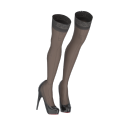
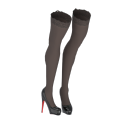
Dye one green stocking model for both maid outfits
The maids' stockings come from one model generated in a key green and
dyed at fitting: coffee for Miriel, white with 45% leg skin for Cocoly.
Drop the unused stocking generations.

Changed region(s): [[0.2812, 0.0625, 0.75, 0.9062]]

diff --git a/client/src/previews/female-base.ts b/client/src/previews/female-base.ts
@@ -1001,7 +1001,8 @@ export async function showFemaleBase(
     })
   }
   collectMaterials(model)
-  // Straps shown while a skirt and its boots are both worn.
+  // Straps shown while a skirt and its boots are both worn. Boots with a second material for the
+  // sole are named _1 and _2 by three.js.
   const garterSets = [
     {
       url: '/__modular-character/parts/female_rogue_garters.glb',
@@ -1009,11 +1010,10 @@ export async function showFemaleBase(
     },
     {
       url: '/__modular-character/parts/female_maid_garters.glb',
-      worn: ['bottom_female_maid', 'boots_female_maid'],
+      worn: ['bottom_female_maid', 'boots_female_maid_1'],
     },
     {
       url: '/__modular-character/parts/female_pink_maid_garters.glb',
-      // The boots have a second material for the red sole, so three.js names their meshes _1 and _2.
       worn: ['bottom_female_pink_maid', 'boots_female_pink_maid_1'],
     },
   ].map((set) => ({

diff --git a/tools/blender-scripts/fit_female_outfit.py b/tools/blender-scripts/fit_female_outfit.py
@@ -32,6 +32,8 @@ LEGS = ('LeftLeg', 'LeftFoot', 'LeftToe', 'RightLeg', 'RightFoot', 'RightToe')
 FEET = ('LeftFoot', 'LeftToe', 'RightFoot', 'RightToe')
 CEREMONY_V2 = dict(source='tripo_multiview_v2/segmented.glb',
[1 lines of base64/hex data omitted]
+# Dyes for the key-green stockings, sRGB. The white carries 45% of the leg's skin colour.
+STOCKING_COLOURS = {'coffee': (.25, .2, .18), 'white': (.868, .784, .734), 'pink': (.96, .72, .78)}
 # Leg skin of the female base, sRGB.
 LEG_SKIN = (.767, .594, .494)
 OUTFITS = {
@@ -217,15 +219,16 @@ OUTFITS = {
                                                 for bone, (x, y, z), radii in (
                                                     ('UpLeg', (.137, .785, -.04), [.095, .225, .105]),
                                                     ('Leg', (.2, .34, -.045), [.075, .265, .085]))])),
-            # Thigh-high stockings and pumps in one piece. The sole came 1 cm below the plate boots' sole, whose lift
-            # every heel shares, and the heel tip 2.5 cm short of it: the shoe is raised as one piece and the heel
-            # stretched by half the gap, as on the ceremony pumps.
+            # Thigh-high stockings with a lace band and red-soled pumps, generated alone on the bare mannequin with
+            # the knit in a key green and dyed here (user request: any colour from one model). The first pair
+            # came with the whole outfit: its shoes' gloss ended in a ragged edge, which showed once the black
+            # knit was lightened. A second pair came with two posts under each heel.
             'boots': dict(nodes=['left_boots', 'right_boots'], version='fitted_v1', hide_bones=LEGS, rigid_post=.075,
-                          lower_shoe=-.0102, extend_heel={'gap': .0127}, level_tops=True,
-                          clip_hem=dict(keep='above', within=.4, per_side=True, shift=-.003),
-                          # Leg skin (sRGB) blended into the black knit: opaque black read as leggings.
-                          repaint=dict(mode='sheer', skin=LEG_SKIN, amount=.3, band=.078),
-                          taper=dict(opening=.03, ankle=.07, ankle_fade=.05, clearance=.002, reach=.13)),
+                          clip_hem=dict(keep='above', within=.4, per_side=True, shift=-.003), lower_shoe=.019,
+                          repaint=dict(mode='dye', colour=STOCKING_COLOURS['coffee'], roughness=.9, margin=4),
+                          sole_colour=(.74, .05, .06),
+                          model=dict(source='tripo_boots_v3/segmented.glb',
[1 lines of base64/hex data omitted]
             'helmet': dict(nodes=['helmet'], version='fitted_v1'),
         }),
 }
@@ -233,17 +236,10 @@ OUTFITS = {
 MAID = OUTFITS['maid']
 OUTFITS['pink_maid'] = dict(MAID, source='../female_maid_outfit/' + MAID['source'], parts={
     'gloves': dict(MAID['parts']['gloves'], repaint=dict(mode='white_cloth', white=(1, .985, .97), margin=8)),
-    # White stockings and black pumps generated alone on the bare mannequin: painting the maid's stockings white
-    # showed the ragged edge of its shoes' gloss.
-    'boots': dict(nodes=['left_boots', 'right_boots'], version='fitted_v1', hide_bones=LEGS, rigid_post=.075,
-                  clip_hem=dict(keep='above', within=.4, per_side=True, shift=-.003),
-                  # The sole stood 2.3 cm over the plate boots' sole, whose lift every heel shares.
-                  lower_shoe=.023,
-                  repaint=dict(mode='clean_knit', rough=.2, margin=4),
-                  # The generated red stopped halfway down the heels' inner faces.
-                  sole_colour=(.74, .05, .06),
-                  # Generated 9 mm ahead of the leg all the way down: moved back as one piece.
[1 lines of base64/hex data omitted]
+    'boots': dict(MAID['parts']['boots'],
+                  repaint=dict(MAID['parts']['boots']['repaint'], colour=STOCKING_COLOURS['white'], floor=.72),
+                  model=dict(MAID['parts']['boots']['model'],
+                             source='../female_maid_outfit/' + MAID['parts']['boots']['model']['source'])),
     # White puff-sleeved blouse under a pink pinafore bodice, generated alone on a bust. Its cuff frill is white
     # like the sleeve, so the arm is cut by the frill's place at the sleeve's end, not its colour.
     'top': dict(nodes=['top'], version='fitted_v1', hide_underwear=(1.15, 1.7),
@@ -882,7 +878,7 @@ def repaint(spec):
     `sheer`: skin colour blended into the matte knit so the leg seems to show through. The glossy shoe (low
     roughness) keeps its colour, and so does the lace and welt band, `band` metres down from each stocking's
     top edge. Picking the band by its tone left the knit's baked shadows black too.
-    `clean_knit`: white knit stained by the shoe's black is made white again.
+    `dye`: a knit generated in key green takes any colour.
     `white_cloth`: dark cloth turns white, its highlights and folds kept as shading.
     """
     def image_of(socket):
@@ -897,8 +893,9 @@ def repaint(spec):
         image.pixels.foreach_get(values)
         return values.reshape(image.size[1], image.size[0], -1)
 
-    colour_image = image_of('Base Color')
-    colour, rough = read(colour_image), read(image_of('Roughness'))[:, :, 1]
+    colour_image, orm_image = image_of('Base Color'), image_of('Roughness')
+    colour, orm = read(colour_image), read(orm_image)
+    rough = orm[:, :, 1]
     assert rough.shape == colour.shape[:2]
     height, width = rough.shape
     position = np.array([v.co for v in mesh.vertices])
@@ -909,8 +906,6 @@ def repaint(spec):
             leg = position[:, 0] * sign > 0
             centre, normal = fit_plane(closed_rim(position[leg], 1))
             below[leg] = (centre - position[leg]) @ (normal * np.sign(normal[2]))
-    if spec['mode'] == 'clean_knit':
-        below = np.array([v.normal.z for v in mesh.vertices])
     depth = np.full((height, width), -1, np.float32)
     used = np.zeros((height, width), bool)
     # A light colour needs a wider rim than 1.5 px: the game's 1024 px texture mixed the black past the islands'
@@ -941,18 +936,26 @@ def repaint(spec):
     if spec['mode'] == 'sheer':
         weight = spec['amount'] * knit * under_band
         target = np.array(spec['skin'], np.float32)
-    elif spec['mode'] == 'clean_knit':
-        # The shoe's black ran over its edge onto the matte knit: knit texels (rougher than `rough`) take the
-        # knit's own white.
-        white = np.median(rgb[used & (tone > .7)], axis=0)
-        target = np.maximum(rgb, white)
-        # The red sole is as matte as the knit and stays: by its colour, and in shadow by facing down.
-        weight = (used * smoothstep((rough - spec['rough']) / .03) * (rgb[:, :, 0] < 1.3 * rgb[:, :, 2] + .02)
-                  * (depth > -.3))
+    elif spec['mode'] == 'dye':
+        # The knit was generated in a key green: those texels take `colour` at their own shading, so the lace's
+        # darker pattern stays. Shoes and soles are not green.
+        green = rgb[:, :, 1] - np.maximum(rgb[:, :, 0], rgb[:, :, 2])
+        # Every green texel, used or not: the game's smaller texture pulled green in from past the islands' edges.
+        # The glossy black shoe carries a faint green cast (up to .06); the knit and its lace start at .11.
+        weight = smoothstep((green - .07) / .05)
+        # `floor`: how dark the lace pattern and folds may go; on white a lower floor read as black thread.
+        shade = np.clip(rgb[:, :, 1] / np.median(rgb[:, :, 1][weight > .9]), spec.get('floor', .35), 1.3)
+        target = np.clip(np.array(spec['colour'], np.float32) * shade[:, :, None], 0, 1)
     else:
         target = np.maximum(rgb, np.clip(.78 + .9 * tone, 0, .97)[:, :, None] * np.array(spec['white'], np.float32))
         weight = used.astype(np.float32)
     rgb += (target - rgb) * weight[:, :, None]
+    if 'roughness' in spec:
+        # A dyed knit takes one roughness, so every colour is as matte.
+        orm[:, :, 1] += (spec['roughness'] - orm[:, :, 1]) * weight
+        orm_image.pixels.foreach_set(orm.ravel())
+        orm_image.update()
+        orm_image.pack()
     colour_image.pixels.foreach_set(colour.ravel())
     colour_image.update()
     colour_image.pack()

diff --git a/tools/split-female-guard-skirt.py b/tools/split-female-guard-skirt.py
@@ -26,6 +26,10 @@ MANNEQUIN_PIECE = 200
 HEAD = float(sys.argv[2]) if len(sys.argv) > 2 else 1.6
 
 source = Source(SOURCE)
+# `green` anywhere in the arguments: the garment is painted in a key green, which is nearly as far from red as
+# the mannequin's blue. Greener than blue is cloth.
+if 'green' in sys.argv:
+    source.warmth[source.colour[:, :, 1].astype(int) > source.colour[:, :, 2]] = 0
 faces = source.faces
 blue = source.face_share(source.warmth < MANNEQUIN_BLUE, faces) > .5
 around = source.neighbours()
@@ -62,7 +66,7 @@ if sys.argv[3:4] == ['boots']:
              for name in ('left_boots', 'right_boots')}
     # A fourth argument cuts the stocking tops level at that height (m): a lace band lost to the mannequin's
     # colour left them ragged.
-    if len(sys.argv) > 4:
+    if len(sys.argv) > 4 and sys.argv[4] != 'green':
         top = float(sys.argv[4])
         for name, triangles in parts.items():
             triangles = source.clip(triangles, top)

diff --git a/doc/assets/modular-female-maid-tripo.md b/doc/assets/modular-female-maid-tripo.md
@@ -69,9 +69,9 @@ OpenAI Codex built-in ImageGen(`codex exec`), **ChatGPT Pro 20x**. OpenAI 생성
 | 상의 (`tripo_top_v2`) | `top/fitted_v1/top_female_maid.glb` | 11,803 | 4,941 |
 | 치마 | `bottom/fitted_v1/bottom_female_maid.glb` | 3,359 | 1,836 |
 | 장갑 | `gloves/fitted_v1/gloves_female_maid.glb` | 4,078 | 4,708 |
-| 스타킹과 구두 | `boots/fitted_v1/boots_female_maid.glb` | 2,686 | 3,335 |
+| 스타킹과 구두 (`tripo_boots_v3`) | `boots/fitted_v1/boots_female_maid.glb` | 4,236 | 3,490 |
 
-합계 22,854 triangles, 몸체는 따로다. 조립 목표(15,000–20,000)를 옷만으로 넘는다. 보이는 삼각형 수와 얼굴 배분은 재지 않았다.
+합계 23,979 triangles, 몸체는 따로다. 조립 목표(15,000–20,000)를 옷만으로 넘는다. 보이는 삼각형 수와 얼굴 배분은 재지 않았다.
 
 - 치마: 허벅지 가중치를 받으면 걸을 때 밑단이 다리 사이에서 찢어졌다. 예복처럼 `robe_physics`로 골반에 매달고 예복의 다리 충돌체를 쓴다. 걷기·달리기·앉기에서 다리가 뚫고 나오지 않는다.
 - 치마 위치: 허리띠 고리가 몸체 허리보다 1.7cm 뒤에 있어 앞은 배 안쪽 2cm, 뒤는 바깥 1.5cm였고, 상의를 벗으면 띠 앞이 배 뒤로 물러나 보였다(사용자 지적 2026-11-19). 치마 전체를 한 덩어리로 1.7cm 앞으로 옮겼다(`model=dict(offset_y=-.017)`). 띠 높이에서 앞은 몸체와 3mm 차이, 뒤는 5mm 바깥이다. 옆은 여전히 띠가 몸체보다 1–2cm 좁고 그 피부는 숨긴다.
@@ -86,19 +86,24 @@ OpenAI Codex built-in ImageGen(`codex exec`), **ChatGPT Pro 20x**. OpenAI 생성
 - 장갑 정렬: 손에만 맞춰 놓았더니 긴 통이 팔꿈치에서 팔보다 2cm 넘게 뒤에 있었다(사용자 지적 2026-11-19). 장갑은 한 덩어리로만 회전·이동한다. 먼저 손과 팔 전체 표면에 ICP로 맞추고(의상 설정의 `fit_arm`), 손목 2cm 위와 윗단 장식 4cm 아래 두 단면의 중심이 팔 중심에 오도록 손목 단면을 축으로 돌린다(`align_ends`, 피팅 스크립트에 추가). 안의 팔과 손은 가려지므로 두 끝만 맞춘다(사용자 지시). 두 번째 단계의 회전은 왼쪽 2.0°, 오른쪽 1.7°, 남은 오차는 1.4mm 이하다. 저장한 미리보기 피팅값은 그 뒤에 적용된다.
   - 구간마다 다른 양으로 정점을 옮기는 방식은 통이 울퉁불퉁해져 버렸다(사용자 지적).
 - 스타킹 윗단이 막힌 채 생성돼 열린 가장자리가 없다. `clip_hem`이 윗단 1cm의 뚜껑에 평면을 맞춘다(피팅 스크립트에 추가).
-- 스타킹 굵기: 윗단이 허벅지보다 15% 굵고 1.6cm 뒤에 있어 다리가 굵어 보였다(사용자 지적 2026-11-19). 안의 다리는 가려지므로 입구(윗단 3cm 아래)와 발목(발목 관절 7cm 위) 두 단면만 몸체와 재고, 다리 축 둘레의 배율을 그 사이에서 선형으로 바꾼다(`taper`, 피팅 스크립트에 추가). 정점마다 맞추지 않아 통의 모양은 매끈하게 남는다(사용자 지시). 배율은 입구 0.87, 발목 0.93(왼쪽)·0.95(오른쪽), 여유 2mm다. 입구는 허벅지 중심으로 1.8cm 옮기고 이 이동은 발목에서 0이 된다. 발목 아래 5cm에서 배율이 1로 돌아가 구두는 그대로다.
-  - 단면은 정점이 아니라 삼각형과 평면의 교선으로 잰다. 몸체 허벅지는 정점 고리가 성겨 정점만으로는 폭이 절반으로 나왔다.
-  - 생성된 다리는 발목에서 몸체보다 5.5cm 뒤에 있다. 구두가 거기 붙어 있어 옮기지 않았다.
-- 스타킹 윗단의 몸체 절단: 두 다리의 윗단에 평면 하나를 맞춰 잘랐더니 다리마다 기울기가 달라 윗단과 살 사이에 틈이 보였다(사용자 지적 2026-11-19). 다리마다 평면을 따로 맞춘다(`clip_hem`의 `per_side`, 피팅 스크립트에 추가). 윗단은 다리 둘레 48방향마다 가장 높은 점으로 잡고 그 평면에서 4mm 넘게 벗어난 뾰족한 점은 뺀다. 평면은 윗단 3mm 아래에 두어 살이 스타킹 안으로 그만큼 들어간다(`shift=-.003`). 기울기는 왼쪽 7.1°, 오른쪽 8.8°다.
-- 스타킹 윗단의 뾰족한 점: 윗단 위로 삼각형 몇 개가 솟아 레이스 위에 톱니로 보였다(사용자 지적 2026-11-19). 다리마다 윗단 평면 위에 있는 정점을 평면으로 눌러 내린다(`level_tops`, 피팅 스크립트에 추가). 왼쪽 32개(최대 8.5mm), 오른쪽 19개(최대 6.0mm). 삼각형 수는 그대로다.
-- 스타킹 색: 불투명한 검정이라 살이 비치지 않았다(사용자 지적 2026-11-19). 실제 반투명 대신 텍스처에 다리 살색(sRGB 0.767, 0.594, 0.494)을 30% 섞는다(`sheer`, 피팅 스크립트에 추가). 이 파츠의 UV가 덮는 텍셀 중 거칠기가 높은 곳(무광 편물)만 바꾸므로 유광 구두는 그대로다. 윗단에서 7.8cm까지인 레이스와 띠는 검정으로 둔다(`band`). 편물 평균색은 (0.155, 0.135, 0.125)에서 (0.34, 0.27, 0.24)쯤이 됐다.
-  - 35%에 레이스까지 섞은 첫 시도는 갈색 스타킹으로 읽혔다. 레이스와 띠를 밝기로 골라 뺀 두 번째 시도는 편물에 구워진 어두운 음영도 같이 빠져 허벅지 안쪽에 검은 줄이 남았다(사용자 지적). 위치로 고른다.
-- 구두: 30° 굽 자세에서 밑창이 판금 부츠보다 1cm 낮고 굽 끝은 밑창보다 2.5cm 짧았다. 구두를 통째로 1cm 올리고(`lower_shoe`) 굽은 예복 구두처럼 차이의 절반(12.7mm)만 늘렸다. 밑창은 판금 부츠와 같은 높이가 됐고 굽 끝은 1.3cm쯤 뜬다.
-- 굽에 6–7.5cm 높이의 정점이 없어 `rigid_post`가 기준 고리를 찾지 못했다. 그 위의 첫 고리를 쓴다(피팅 스크립트에 추가).
+- 스타킹과 구두는 2026-11-19에 따로 다시 생성했다(`tripo_boots_v3`, 아래 "스타킹 재생성"). 첫 생성물의 굵기 보정, 윗단 다듬기, 살색 섞기, 구두 높이 보정은 새 모델에 쓰지 않는다.
 
 ![대기·뒤·걷기·달리기·앉기](../../assets/items/female_maid_outfit/preview-poses.png)
 
 미리보기 `/modular-character-preview.html?character=female&top=maid&bottom=maid&boots=maid&gloves=maid&helmet=maid&hair=twintail`.
+
+## 스타킹 재생성 — 2026-11-19
+
+첫 스타킹은 불투명한 검정이었다. 살이 비치도록 텍스처에 살색을 섞자(사용자 요청) 구두 광택의 들쭉날쭉한 경계가 드러나 커피색이 구두로 번져 보였다(사용자 지적). 다시 생성했다(사용자 결정).
+
+- `tripo_boots_v2` **[미사용]**: 커피색 스타킹과 검은 레이스 띠(`stockings-*-v1.png`). 작업 ID `967f15f5-0bc6-477c-8e69-7ce09d5802c7`, seed 111908, 120크레딧. 구두마다 가는 굽 기둥이 두 개씩 나왔다. 앞 기둥을 지우면 굽자리가 어색했고, 흰 스타킹의 구두를 발목에서 이어 붙이면 위아래 편물의 광택이 달랐다(사용자 지적). 폴더와 시안 그림은 사용자 요청(2026-11-19)으로 지웠고 이 기록만 남긴다.
+- `tripo_boots_v3`: 스타킹을 구분하기 쉬운 초록(`#35C24A` 근처)으로 그려 생성하고 피팅 때 물들인다(사용자 제안: 한 모델에서 흰색·커피색·분홍 등을 만든다). 원화 `keyed-front-v1.png`, `keyed-side-v1.png`, `keyed-back-v1.png`는 [분홍 메이드복](modular-female-pink-maid-tripo.md)의 흰 스타킹 시안에서 스타킹만 바꿨고, 레이스 띠는 같은 초록 바탕에 짙은 초록 무늬다. Codex ImageGen, ChatGPT Pro 20x. 다중 시점 front·left·back, 작업 ID `898b3bbc-899b-4775-a7a8-e6f3284ae2a8`, seed 111909, 120크레딧(760 → 640).
+- 분리: `split-female-guard-skirt.py assets/items/female_maid_outfit/tripo_boots_v3 0.95 boots green`. 초록은 빨강−파랑 차이가 마네킹 파랑만큼 커서 마네킹으로 읽히므로, `green`이 붙으면 파랑보다 초록이 큰 텍셀을 옷으로 본다. 배율 1.823, 평균 10.1mm. 레이스 띠가 메시로 나왔고 굽은 하나다.
+- 피팅: 구두를 1.9cm 내려 밑창을 판금 부츠 높이에 맞췄다(`lower_shoe`). 굵기 보정은 없다.
+- 색: 초록 텍셀을 그 음영 그대로 지정한 색으로 바꾸고 거칠기를 0.9로 맞춘다(`repaint`의 `dye`). 색은 `STOCKING_COLOURS`에 커피(0.25, 0.2, 0.18)·흰색·분홍을 두었고 미리엘은 커피다. 섬 바깥의 초록까지 모두 바꾼다. 쓰는 텍셀만 바꾸면 게임용 1024px 텍스처에서 이음매에 초록 선이 보였다.
+- 밑창과 굽 안쪽 면은 붉은 재질로 바꾼다(`sole_colour`). 재질이 둘이 되어 미리보기의 가터 착용 조건은 `boots_female_maid_1`을 본다.
+- 스타킹 윗단이 0.78m에서 0.85m로 올라가 가터 끈을 다시 만들었다.
+- 4,236 triangles, 가린 몸체 삼각형 3,490.
 
 ## 가터 끈
 

diff --git a/doc/assets/modular-female-pink-maid-tripo.md b/doc/assets/modular-female-pink-maid-tripo.md
@@ -8,7 +8,7 @@ Cocoly를 통짜 모델 `pink_maid.glb`에서 여성 공통 몸체로 옮기며 
 - 상의: 흰 퍼프소매 블라우스, 펼친 깃과 분홍 리본, 주름을 두른 열린 가슴선, 어깨 주름이 달린 분홍 코르셋 조끼.
 - 하의: 흰 허리띠, 짧은 분홍 치마, 흰 레이스 속치마, 주름 앞치마, 뒤의 큰 흰 리본.
 - 장갑: 검은 메이드 장갑을 흰색으로 바꾼 것.
-- 신발: 흰 허벅지 스타킹과 검은 에나멜 스틸레토, 붉은 밑창. 윗단 레이스는 없다.
+- 신발: 윗단에 레이스 띠가 있는 흰 허벅지 스타킹과 검은 에나멜 스틸레토, 붉은 밑창.
 - 가터 끈: 흰 끈 네 줄, 금색 걸쇠.
 
 ## 원화
@@ -39,14 +39,13 @@ Tripo API 유료 크레딧, 건당 120크레딧(1240 → 880). 설정은 각 폴
 cd tools
 ../.venv/bin/python split-female-maid-top.py assets/items/female_pink_maid_outfit/tripo_top_v1
 ../.venv/bin/python split-female-guard-skirt.py assets/items/female_pink_maid_outfit/tripo_skirt_v1 1.25
-../.venv/bin/python split-female-guard-skirt.py assets/items/female_pink_maid_outfit/tripo_boots_v1 0.9 boots 0.83
 ```
 
 두 분리 스크립트가 폴더를 인자로 받게 했다. 치마 스크립트의 둘째 인자는 그 높이 위의 떨어진 조각을 버리고, `boots`는 조각을 다리별로 나누며, 넷째 인자는 그 높이에서 윗단을 평평하게 자른다.
 
 - 상의: 배율 0.798, 평균 5.5mm, 95% 12.3mm.
 - 치마: 배율 1.838, 평균 9.9mm. 마네킹 수영복의 등 끈 조각 두 개가 치마에 딸려 와 허리띠보다 15cm 솟았고, 허리 절단 평면이 거기에 맞춰져 수직으로 섰다. 팔 피부까지 328개를 잘못 잘라 위팔에 구멍이 보였다(사용자 지적). 1.25m 위의 조각을 버려 평면이 1.21m에 수평으로 놓였다.
-- 스타킹: 배율 1.822, 평균 6.1mm. 시안의 윗단 레이스 띠가 3D에서는 마네킹 파란색으로 나와 윗단이 들쭉날쭉했다. 0.83m에서 평평하게 잘라 민무늬로 쓴다(사용자 결정).
+- 스타킹(`tripo_boots_v1`, 미사용): 배율 1.822, 평균 6.1mm. 시안의 윗단 레이스 띠가 3D에서는 마네킹 파란색으로 나와 0.83m에서 평평하게 잘랐다.
 
 ## 피팅
 
@@ -57,17 +56,15 @@ cd tools
 | 상의 | `top/fitted_v1/top_female_pink_maid.glb` | 11,886 | 4,469 |
 | 치마 | `bottom/fitted_v1/bottom_female_pink_maid.glb` | 4,243 | 1,748 |
 | 장갑 | `gloves/fitted_v1/gloves_female_pink_maid.glb` | 4,078 | 4,708 |
-| 스타킹과 구두 | `boots/fitted_v1/boots_female_pink_maid.glb` | 4,110 | 3,349 |
+| 스타킹과 구두 | `boots/fitted_v1/boots_female_pink_maid.glb` | 4,236 | 3,490 |
 
 - 상의: 소매 정렬과 소매 끝 슬라이더는 검은 메이드와 같다. 소매 주름이 소매와 같은 흰색이라 색으로 고를 수 없어, 소매 끝 3.5cm를 주름으로 본다(`clip_sleeve`의 `ruffle`).
 - 상의 허리: 코르셋 아랫단이 몸체 허리보다 2cm 넓었다(19.6×16.1cm, 몸체 17.8×14.1cm). 가슴 밑 1.29m에서 아랫단까지 선형으로 좁혀 아랫단을 0.93배로 맞춘다(`taper_waist`, 사용자 제안).
 - 치마: 설정은 검은 메이드 치마와 같고, 분홍 치마 판이 260–1,250면 조각으로 나와 속 껍질 판정의 겹 기준만 250면으로 낮췄다. 허리띠가 몸체보다 작아 코르셋이 띠를 뚫었다. 사용자가 미리보기에서 전체 102.5%, 좌우 0.3cm, 앞뒤 −0.2cm로 맞췄다([저장값](female-pink_maid-preview-fit.json)). 띠만 1.16–1.18배 넓히는 보정은 너무 커서 버렸다(사용자 지적).
 - 장갑: 검은 장갑의 텍스처에서 이 파츠의 텍셀을 흰색으로 칠한다(`repaint`의 `white_cloth`). 게임용 1024px 텍스처에서 조각 가장자리에 검정이 섞여 회색 솔기가 보여, 칠하는 범위를 가장자리 밖 8px로 넓혔다.
-- 스타킹: 굵기 보정 없이 통째로 9mm 뒤로 옮겼다(`offset_y`). 생성물이 다리 전체에서 앞으로 1cm쯤 치우쳐 있었다. 구두는 2.3cm 내려 밑창을 판금 부츠 높이에 맞췄다(`lower_shoe`).
-  - 무릎 근처가 몸체보다 폭 6–9mm, 앞뒤 2cm 두껍다. Tripo 원본에 무릎과 종아리 굴곡이 새겨져 있다. 입구와 발목 두 단면으로 맞추는 `taper`는 이 굴곡을 줄이지 못해 뺐다(사용자 결정).
-  - 구두의 검정이 윗선을 넘어 스타킹에 번져 있어, 무광인데 어두운 텍셀을 스타킹의 흰색으로 칠한다(`repaint`의 `clean_knit`). 붉은 텍셀과 아래를 향한 면은 뺀다.
-  - 생성된 붉은색이 굽 안쪽 면 중간에서 끝나, 밑창과 굽 안쪽 면을 붉은 재질로 바꾼다(`sole_colour`).
-- 검은 스타킹을 흰색으로 칠하는 방식은 버렸다. 구두의 광택 경계가 들쭉날쭉해 흰색이 구두로 번졌고, 윗선을 평면으로 다시 그려도 깔끔하지 않았다(사용자 지적). 그 코드는 남기지 않았다.
+- 스타킹과 구두: [검은 메이드복](modular-female-maid-tripo.md)의 초록 스타킹 모델(`female_maid_outfit/tripo_boots_v3`)을 흰색으로 물들여 쓴다(`repaint`의 `dye`, 사용자 결정). 레이스 무늬가 흰 바탕에서 검은 실처럼 보이지 않게 음영 하한을 0.72로 올렸다(`floor`). 흰색은 살이 비치는 느낌이 나도록 흰 바탕 (0.95, 0.94, 0.93)에 다리 살색을 45% 섞은 (0.868, 0.784, 0.734)이다(사용자 요청, 25%·35%를 거쳐 정했다). 나머지 설정은 미리엘 것과 같다.
+  - 이 의상용으로 따로 생성한 `tripo_boots_v1`은 **[미사용]**이다. 윗단 레이스 띠가 마네킹 파란색으로 나와 잘라 냈고, 무릎 근처가 몸체보다 폭 6–9mm·앞뒤 2cm 두꺼웠으며, 구두의 검정이 스타킹에 번지고 붉은 밑창이 굽 중간에서 끝났다. 폴더는 사용자 요청(2026-11-19)으로 지웠고 기록만 남긴다. 시안 `boots-*-v1.png`는 초록 스타킹 원화의 바탕이라 남겼다.
+- 검은 스타킹을 흰색으로 칠하는 방식도 버렸다. 구두의 광택 경계가 들쭉날쭉해 흰색이 구두로 번졌고, 윗선을 평면으로 다시 그려도 깔끔하지 않았다(사용자 지적). 그 코드는 남기지 않았다.
 
 미리보기 `/modular-character-preview.html?character=female&top=pink_maid&bottom=pink_maid&boots=pink_maid&gloves=pink_maid&helmet=maid&hair=twintail`.
 
